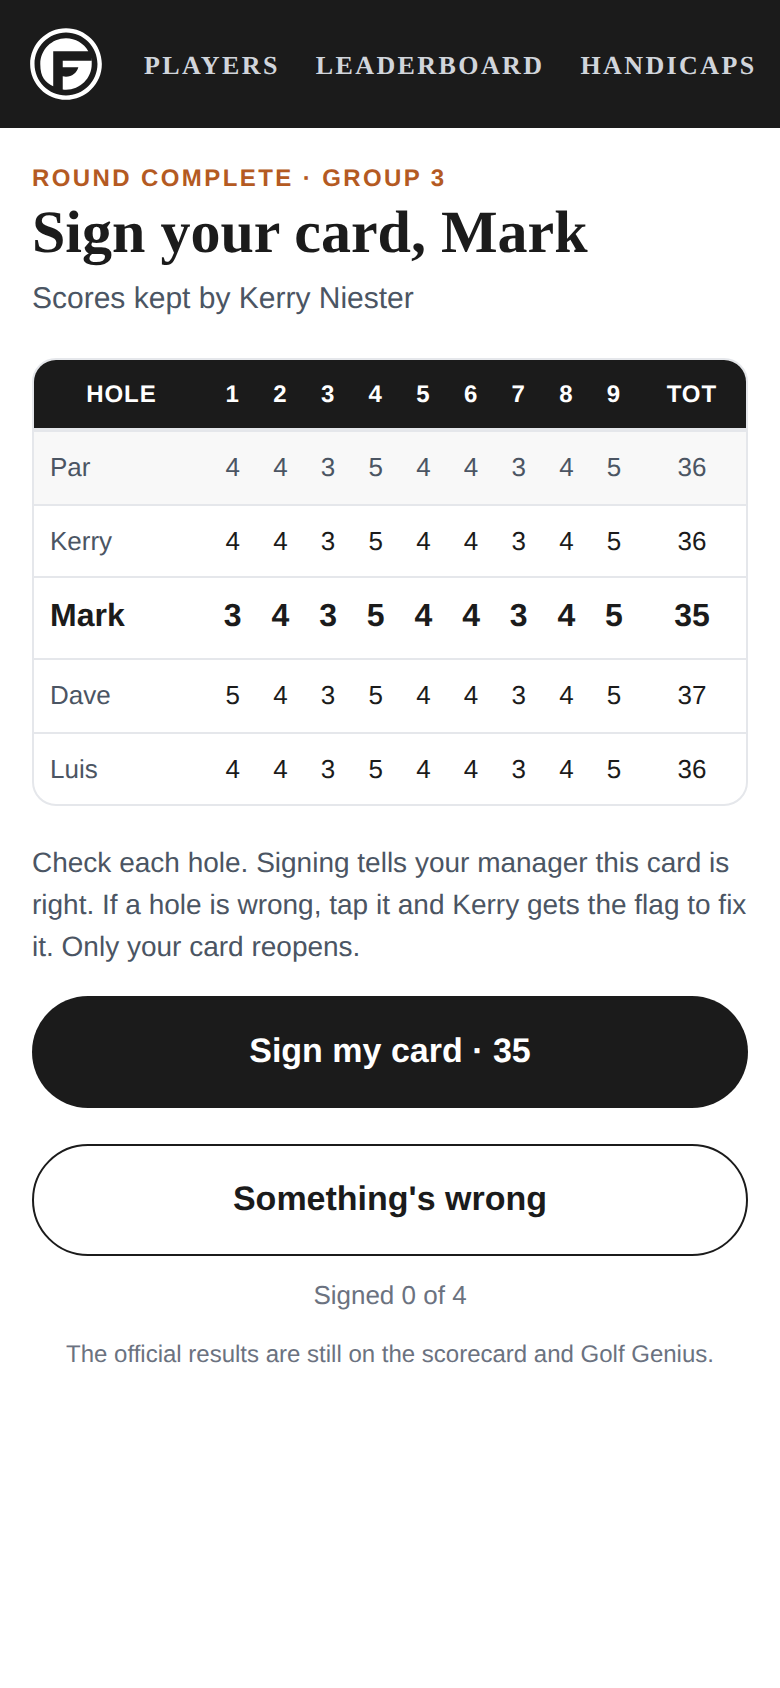
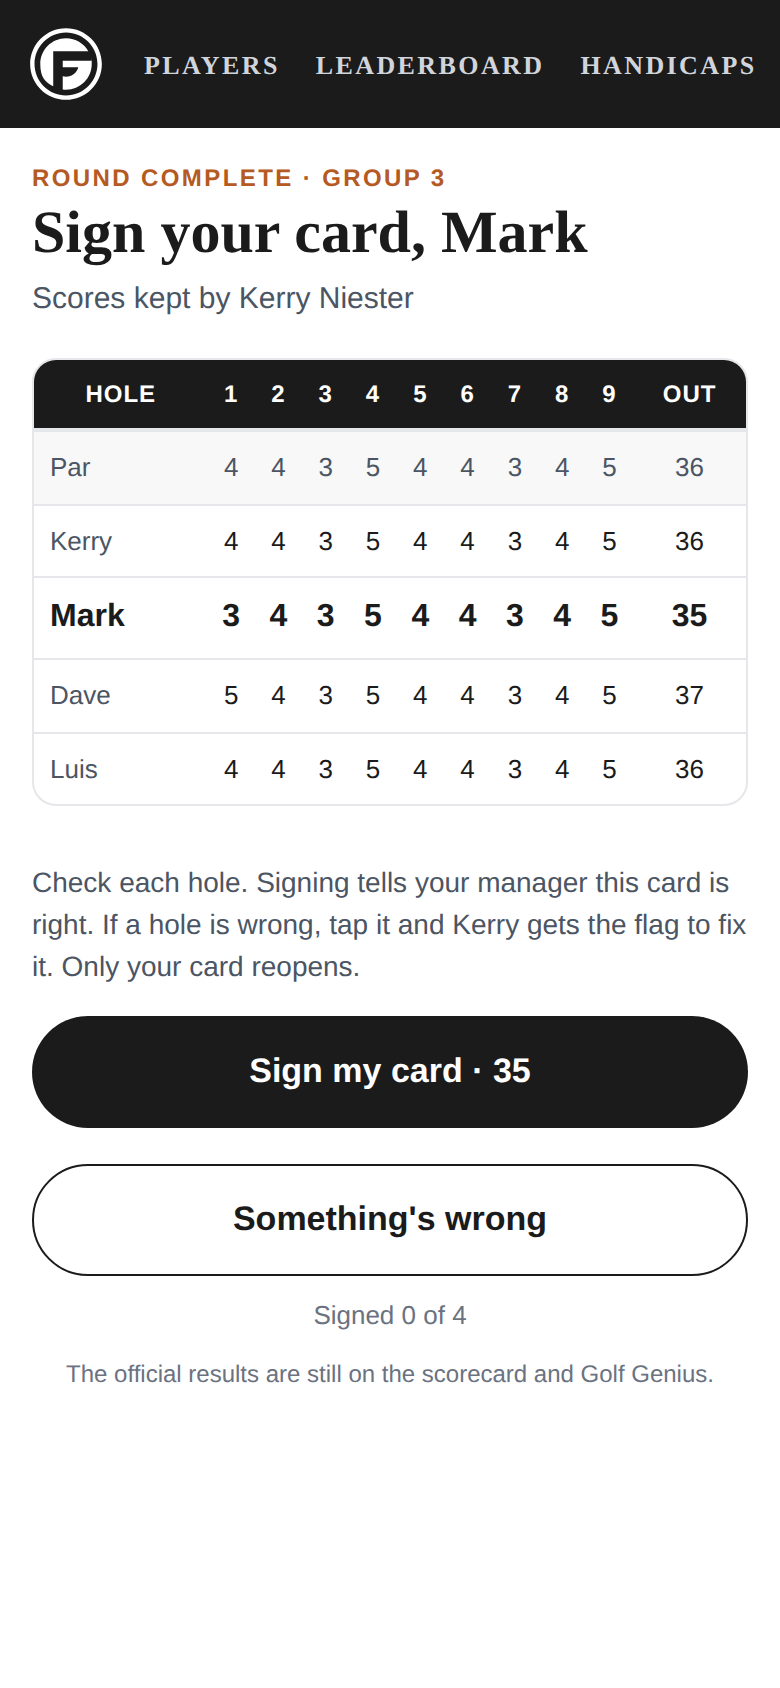
v2.493.2: score entry at 18 holes — the turn, OUT/IN/TOTAL card; 18-hole screenshots
Claude-Session: https://claude.ai/code/session_01PeGTnLppc6bpJPrSmUWsVP

diff --git a/transaction-tracker/templates/score_entry.html b/transaction-tracker/templates/score_entry.html
@@ -133,7 +133,7 @@
         const K = {q: "se_queue_" + tk, who: "se_who_" + tk, hole: "se_hole_" + tk, follow: "se_follow_" + tk};
         let card = null, queue = store.get(K.q, []), who = store.get(K.who, null);
         let following = store.get(K.follow, false), hole = null, draft = {}, flushing = false;
-        let ctpHole = null, lostMsg = "", errMsg = "", flagging = false, busy = false;
+        let ctpHole = null, turnNext = null, lostMsg = "", errMsg = "", flagging = false, busy = false;
 
         const ICON = {
             back: '<svg width="18" height="18" viewBox="0 0 24 24" fill="none" stroke="#1B1B1B" stroke-width="2" stroke-linecap="round" stroke-linejoin="round"><path d="M15 18l-6-6 6-6"/></svg>',
@@ -208,6 +208,7 @@
             if (!who) body = joinScreen();
             else if (card.lock.state === "held" && !following) body = heldScreen();
             else if (keeping() && ctpHole != null) body = ctpScreen(ctpHole);
+            else if (keeping() && turnNext != null) body = turnScreen(turnNext);
             else if (keeping() && !(allDone() && hole === "done")) body = holeScreen();
             else body = cardScreen();
             app.innerHTML = banner + body;
@@ -323,6 +324,47 @@
                 ${queue.length ? statusLine() : ""}`;
         }
 
+        function turnScreen(next) {
+            const order = holeOrder(), firstNine = order.slice(0, 9);
+            const lo = Math.min(...firstNine), label = lo === 1 ? "Out" : "In";
+            const par = firstNine.reduce((a, n) => a + (info(n).par || 0), 0);
+            const rows = subjects().map((s) => {
+                const t = firstNine.reduce((a, n) => a + (value(s.key, n).v || 0), 0);
+                const d = par ? t - par : null;
+                return `<div class="se-row"><div class="se-who"><div class="se-name">${esc(s.name)}</div></div>
+                    <div class="se-score"><div class="v">${t || "–"}</div><div class="r">${d == null ? "" : d === 0 ? "Even" : (d > 0 ? "+" + d : d)}</div></div></div>`;
+            }).join("");
+            return `<div class="se-eyebrow">${esc(eyebrow())} · The turn</div>
+                <h1 class="se-h1">${lo === 1 ? "Front" : "Back"} nine done</h1>
+                <div class="se-sub">${label} (holes ${firstNine[0]}–${firstNine[8]}) · Par ${par}</div>
+                <div class="se-gap"></div><div class="se-stack">${rows}</div>
+                ${statusLine()}
+                <button type="button" class="se-pill go" data-act="turn">Go to hole ${next}</button>`;
+        }
+
+        function cardBlock(holes, label, subs, mine, flagsMine, withTotal) {
+            // One scorecard block: a nine with its OUT / IN column, plus the
+            // round TOTAL on the second block of an 18.
+            const head = `<tr><th>Hole</th>${holes.map((n) => `<th>${n}</th>`).join("")}<th>${label}</th>${withTotal ? "<th>Tot</th>" : ""}</tr>`;
+            const parSum = (hs) => hs.reduce((a, n) => a + (info(n).par || 0), 0);
+            const all = holeOrder();
+            const par = `<tr class="par"><td class="nm">Par</td>${holes.map((n) => `<td>${info(n).par || ""}</td>`).join("")}<td>${parSum(holes) || ""}</td>${withTotal ? `<td>${parSum(all) || ""}</td>` : ""}</tr>`;
+            const rows = subs.map((s) => {
+                const isMe = s === mine;
+                let sub = 0;
+                const cells = holes.map((n) => {
+                    const v = value(s.key, n).v;
+                    if (v != null) sub += v;
+                    const fl = isMe && flagsMine.some((f) => f.hole === n);
+                    const cell = v == null ? "" : v;
+                    return `<td class="${fl ? "flagged" : ""}">${isMe && flagging ? `<button type="button" class="hole" data-act="flaghole" data-h="${n}">${cell}</button>` : cell}</td>`;
+                }).join("");
+                const tot = all.reduce((a, n) => a + (value(s.key, n).v || 0), 0);
+                return `<tr class="${isMe ? "me" : ""}"><td class="nm">${esc(first(s.name) || s.name)}</td>${cells}<td>${sub || ""}</td>${withTotal ? `<td>${tot || ""}</td>` : ""}</tr>`;
+            }).join("");
+            return `<div class="se-card" style="margin-bottom:10px"><table><thead>${head}</thead><tbody>${par}${rows}</tbody></table></div>`;
+        }
+
         function cardScreen() {
             // The live group card: read-only for followers, and the sign-off
             // screen for everyone once the last hole is in.
@@ -333,19 +375,12 @@
             const done = allDone();
             const kept = card.lock.holder_name;
             const flagsMine = openFlags(who);
-            const head = `<tr><th>Hole</th>${order.map((n) => `<th>${n}</th>`).join("")}<th>Tot</th></tr>`;
-            const par = `<tr class="par"><td class="nm">Par</td>${order.map((n) => `<td>${info(n).par || ""}</td>`).join("")}<td>${order.reduce((a, n) => a + (info(n).par || 0), 0) || ""}</td></tr>`;
-            const rows = subs.map((s) => {
-                let tot = 0;
-                const isMe = s === mine;
-                return `<tr class="${isMe ? "me" : ""}"><td class="nm">${esc(first(s.name) || s.name)}</td>` + order.map((n) => {
-                    const v = value(s.key, n).v;
-                    if (v != null) tot += v;
-                    const fl = isMe && flagsMine.some((f) => f.hole === n);
-                    const cell = v == null ? "" : v;
-                    return `<td class="${fl ? "flagged" : ""}">${isMe && flagging ? `<button type="button" class="hole" data-act="flaghole" data-h="${n}">${cell}</button>` : cell}</td>`;
-                }).join("") + `<td>${tot || ""}</td></tr>`;
-            }).join("");
+            // 18 holes: OUT and IN blocks like a paper card (one 20-column
+            // table would scroll sideways on a phone). A nine keeps one block.
+            const tables = order.length > 9
+                ? cardBlock(order.slice(0, 9), "Out", subs, mine, flagsMine, false)
+                  + cardBlock(order.slice(9), "In", subs, mine, flagsMine, true)
+                : cardBlock(order, order[0] >= 10 ? "In" : "Out", subs, mine, flagsMine, false);
             const total = mine ? order.reduce((a, n) => a + (value(mine.key, n).v || 0), 0) : 0;
             const nSigned = card.players.filter((p) => signed(p.customer_id)).length;
             const keeperSigned = (card.signoffs || []).find((s) => s.kind === "scorekeeper");
@@ -378,7 +413,7 @@
                 ${keeping() && done ? `<div class="se-gap"></div><button type="button" class="se-pill line" data-act="back">Back to the holes</button>` : ""}
                 ${hioW}
                 <div class="se-gap"></div>
-                <div class="se-card"><table><thead>${head}</thead><tbody>${par}${rows}</tbody></table></div>
+                ${tables}
                 <div class="se-gap"></div>
                 ${done ? `<div class="se-copy" style="margin-bottom:14px">Check each hole. Signing tells your manager this card is right. If a hole is wrong, tap it and ${esc(first(kept) || "the scorekeeper")} gets the flag to fix it. Only your card reopens.</div>` : `<div class="se-copy">Live. This card fills in as ${esc(first(kept) || "the scorekeeper")} enters each hole. You'll sign it at the end.</div>`}
                 ${actions}
@@ -483,8 +518,12 @@
                 if (h.par === 3 && c && !c.answered) { ctpHole = saved; }
                 const order = holeOrder(), i = order.indexOf(saved);
                 if (i < order.length - 1) hole = order[i + 1];
+                // THE TURN (18 holes): after the ninth hole played, show the
+                // first nine's totals before heading to the other nine.
+                if (order.length === 18 && i === 8) turnNext = hole;
                 store.set(K.hole, hole); render(); return;
             }
+            if (act === "turn") { turnNext = null; render(); return; }
             if (act === "ctp") {
                 const n = ctpHole; ctpHole = null;
                 post("/api/score-entry/ctp", {hole: n, customer_id: b.dataset.cid ? Number(b.dataset.cid) : null, claimed_by: who});

diff --git a/transaction-tracker/static/js/version.js b/transaction-tracker/static/js/version.js
@@ -1,5 +1,14 @@
-window.TGF_VERSION = "2.493.1";
+window.TGF_VERSION = "2.493.2";
 window.TGF_CHANGELOG = [
+  {
+    version: "2.493.2",
+    date: "2026-09-25",
+    title: "Score entry at 18 holes: the turn, and OUT / IN / TOTAL on the card",
+    changes: [
+      "Kerry asked to see the 18-hole screens. After the ninth hole played on an 18, the scorekeeper sees the turn: each player's first-nine total against par, then 'Go to hole 10' (or 'Back nine done' for a group that started on 10).",
+      "The sign-your-card screen on an 18 is two blocks like a paper scorecard, holes 1-9 with OUT and holes 10-18 with IN and TOTAL, instead of one 20-column table that scrolled sideways on a phone. A nine keeps one block, labelled OUT (or IN on a back nine). Screenshots: docs/claude/screenshots/score-entry-2026-09-25-18h/."
+    ]
+  },
   {
     version: "2.493.1",
     date: "2026-09-25",

diff --git a/transaction-tracker/docs/claude/score-entry.md b/transaction-tracker/docs/claude/score-entry.md
@@ -97,6 +97,18 @@ on the page — green means bought in.
   PAIRINGS view — Seed from pairings, each group's link and QR, round status
   and a Close button — so Kerry never needs a bridge.
 
+## 18 holes (v2.493.2)
+
+- The card strip shows every hole in play order, nine to a row; a shotgun
+  group on 10 runs 10–18 then 1–9.
+- **The turn:** after the ninth hole played on an 18, the scorekeeper sees
+  each player's first-nine total against par, then "Go to hole N". Not in
+  CA's mockup; added because Kerry asked to see the front total and it is
+  the natural pause on a paper card.
+- **The card:** OUT (1–9) and IN (10–18) + TOTAL blocks, not one 20-column
+  table. A nine keeps one block.
+- Stroke notes use the 18-hole stroke indexes on GG's full-card setting.
+
 ## Access: the cart-sign QR (Kerry #666 B)
 
 The first access path is a QR code on the cart sign: scan, tap your name,
